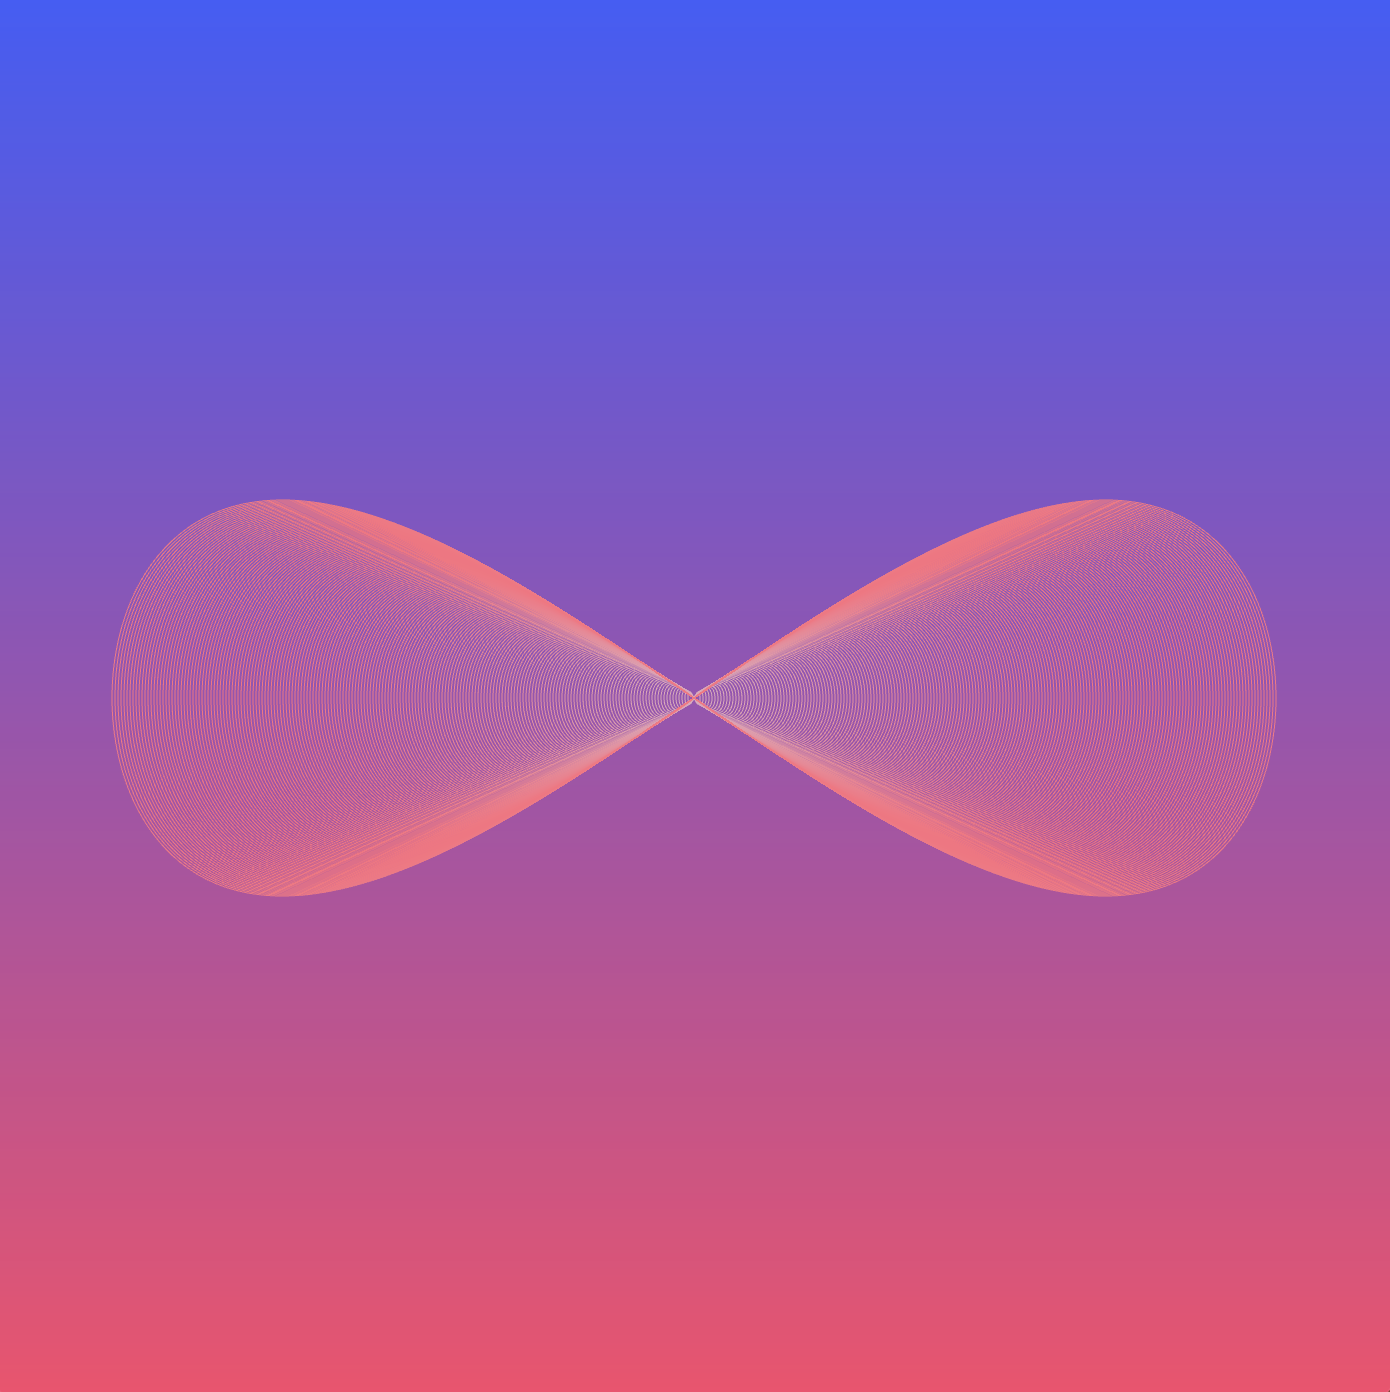
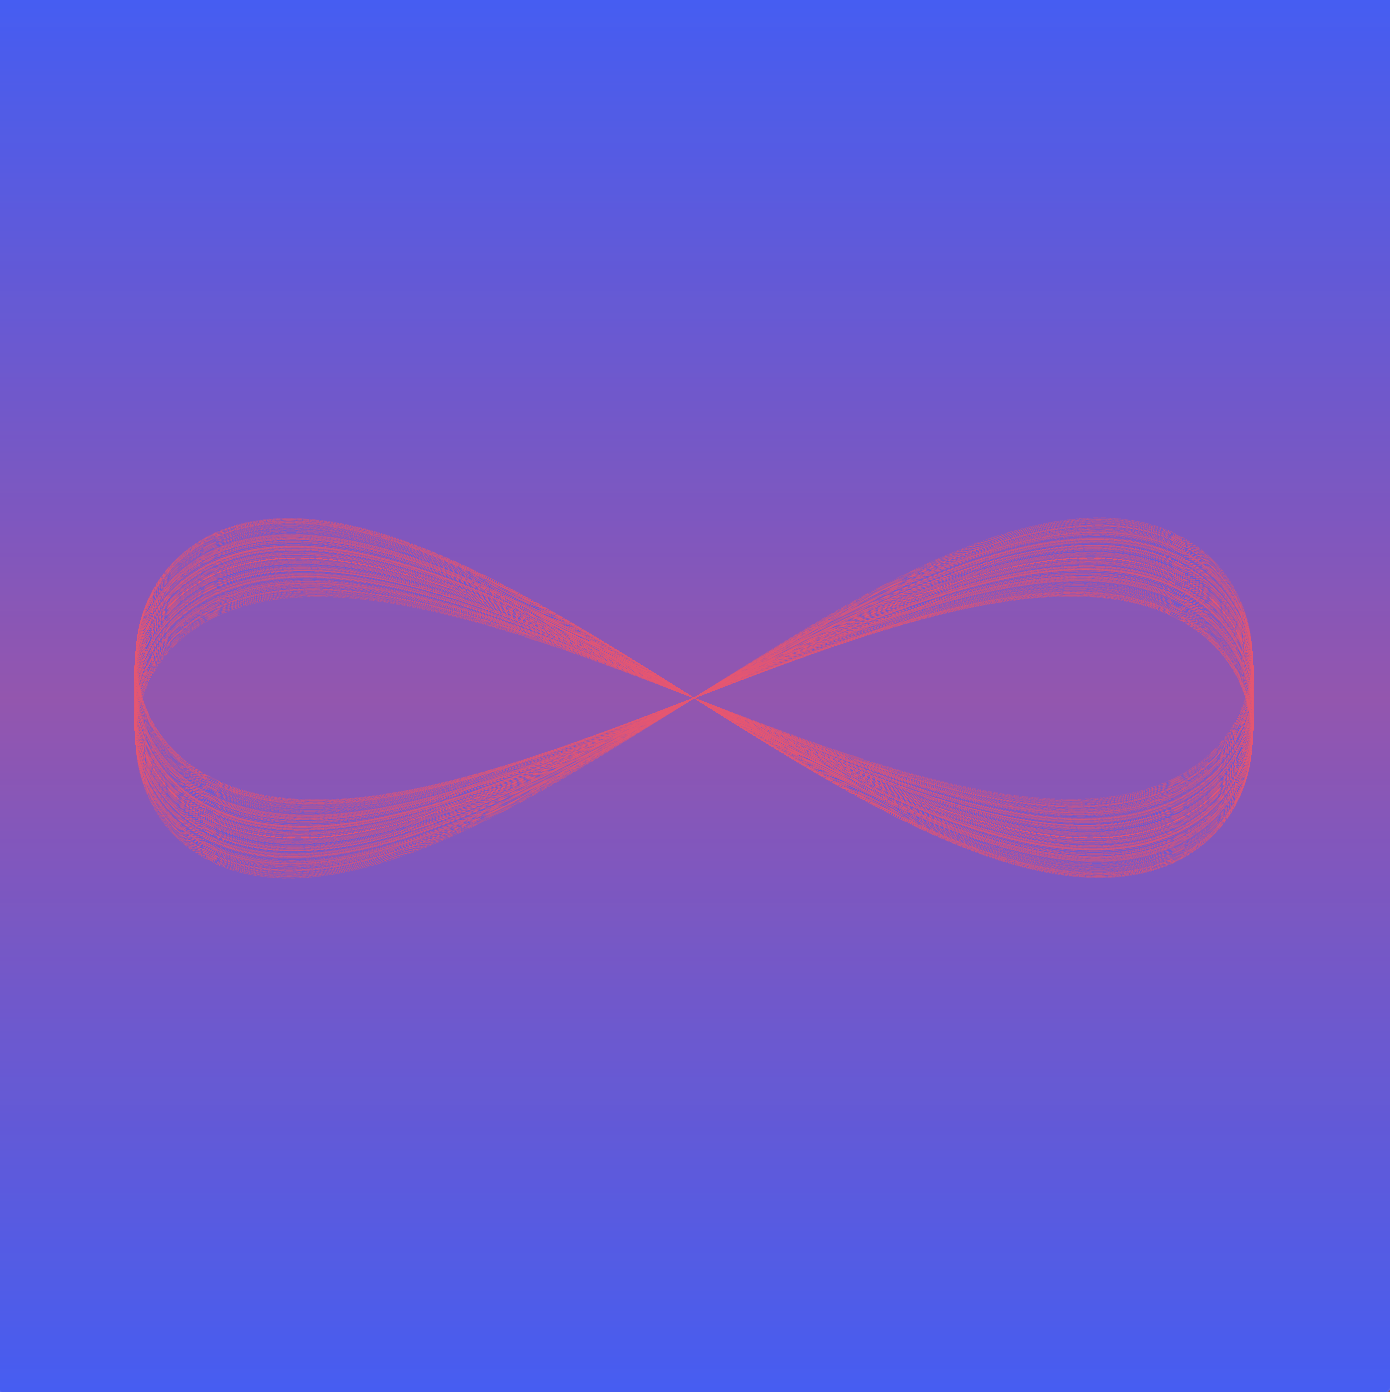
01262025

diff --git a/sketches/01262025.js b/sketches/01262025.js
@@ -2,34 +2,24 @@
 // https://genuary.art/
 // Prompt: Symmetry.
 
-let aDir, bDir, a, b, maxA, maxB, centerX, centerY;
-let vertices = [];
-
-
+let a, b;
 
 function setup() {
   noFill();
   createCanvas(windowWidth, windowHeight);
 
-  aDir = 1;
-  bDir = 1;
-  centerX = 0; 
-  centerY = 0;
-  a = 3;
-  b = 3;
-  maxA = width / 2;
-  maxB = height / 2;
+  a = width / 10 * 4;
+  b = height / 10;
   backgroundGradient(color('#3F5EFB'), color('#FC466B'));
 }
 
 function draw() {
-  // backgroundGradient(color('#3F5EFB'), color('#FC466B'));
   translate(width / 2, height / 2);
-  strokeWeight(0.5);
-  stroke(lerpColor(color('#bfe9ff'), color('#ff6e7f'), map(sin(frameCount * 0.01), -1, 1, 0, 1)));
+  strokeWeight(0.1);
+  stroke(lerpColor(color('#3F5EFB'), color('#FC466B'), map(sin(frameCount * 0.01), -1, 1, 0, 1)));
   
   push();
-  rotate(0);
+  rotate(random(-0.1, 0.1));
   beginShape();
   for (let t = 0; t < TWO_PI; t += 0.01) {
     let x = a * sin(t);
@@ -48,30 +38,22 @@ function draw() {
   }
   endShape(CLOSE);
   pop();
-
-  a += 1.5 * aDir;
-  b += 0.5 * bDir;
-  if (a >= maxA || a <= 3) {
-    if (a <= 3) {
-      maxA += 5
-    }
-    aDir *= -1;
-  }
-  if (b >= maxB || b <= 3) {
-    if (b <= 3) {
-      maxB += 5
-    }
-    bDir *= -1;
-  }
 }
 
 function backgroundGradient(c1, c2) {
   push();
-  for(let y=0; y<height; y++){
-    n = map(y,0,height,0,1);
-    let newc = lerpColor(c1,c2,n);
+  for(let y = 0; y < height / 2; y++){
+    n = map(y, 0, height, 0, 1);
+    let newc = lerpColor(c1, c2, n);
     stroke(newc);
-    line(0,y,width, y);
+    line(0, y, width, y);
+  }
+
+  for(let y = height / 2; y < height; y++){
+    n = map(y, 0, height, 1, 0);
+    let newc = lerpColor(c1, c2, n);
+    stroke(newc);
+    line(0, y, width, y);
   }
   pop();
 }
